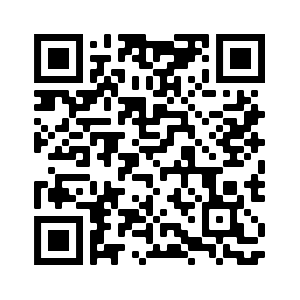
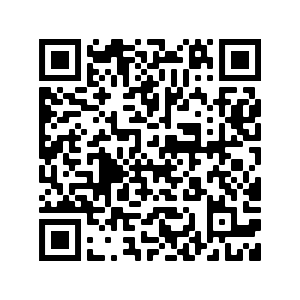
atualizou qr

diff --git a/src/app/services/itens.service.ts b/src/app/services/itens.service.ts
@@ -42,7 +42,7 @@ export class ItensService {
         "SKID DE P-2000", "./assets/tanques/Skid2000.jpg", 
         "Instalação composta com 1 Skid de vasos P-2000 com grupo de regulagem",
         "P2000","https://simple-xr-dashboard.s3.sa-east-1.amazonaws.com/models-3d/SkidsP2000_Rev05.glb",
-        "./assets/qrcode/Skid P-2000Pitstop.png", 
+        "./assets/qrcode/KID-DE-P-2000.png", 
         "https://simple-xr-dashboard.s3.sa-east-1.amazonaws.com/models-3d/usdz_skidsp2000_rev05___1638550100974.usdz"
         ),
       
